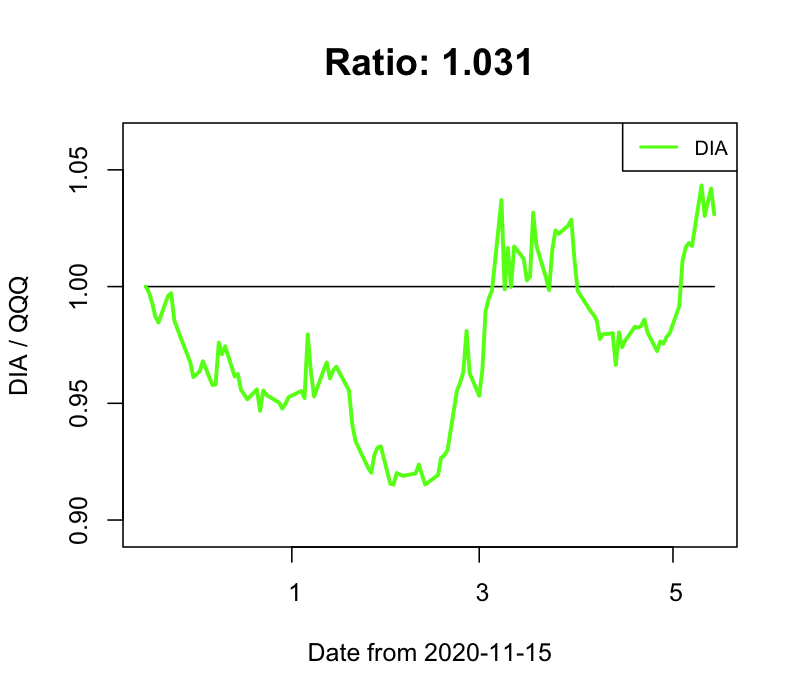
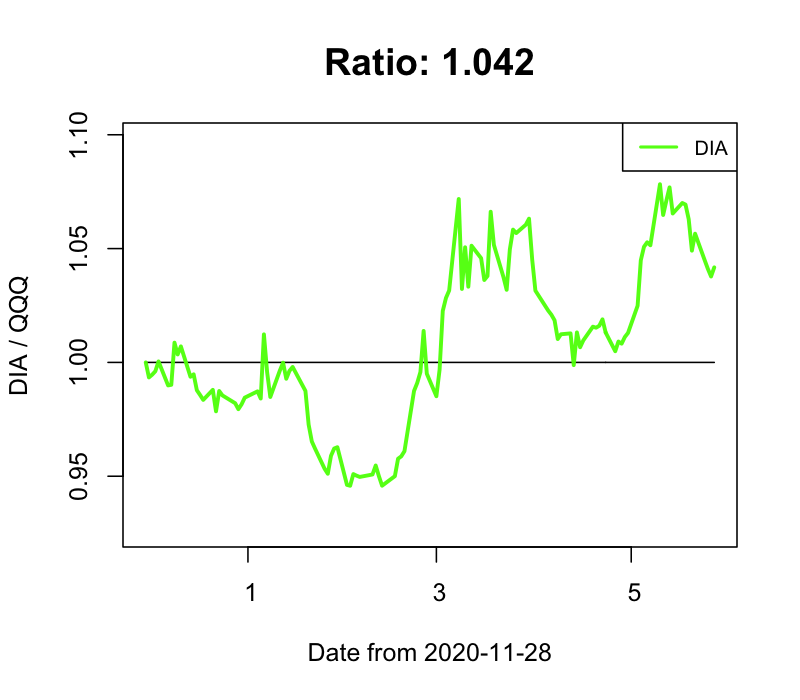
The first devel version

diff --git a/README.md b/README.md
@@ -2,31 +2,29 @@
 
 ### 逆張り投資 買いタイミング判定 ver 0.99.1
 
-- 2021-05-15 index銘柄
+- 2021-05-28 index銘柄
 
-  - 買いタイミング！: QQQ, AIQ, BOTZ, CLOU, EBIZ, EDOC, FXI, ICLN, MGK, MILN, PBD, SMH, TLT, VBK, VCR, VGT, VONG, VOT, VPL, VUG, VWO, XLK, XLY
+  - 買いタイミング！: VPU, XLU
 
-  - 強く買いタイミング！！！: FINX
+  - 利確タイミング！: GDXJ
 
-  - 利確タイミング！: FEZ, GDX, HDV, SPYD, TIP, VFH, VYM
+  - 強く利確タイミング！！！: GLD, GLDM, IAU
 
-  - 強く利確タイミング！！！: GLD, GLDM, IAU, VAW, XLF
+- 2021-05-28 レバレッジ銘柄
 
-- 2021-05-15 レバレッジ銘柄
+  - 買いタイミング！: CWEB, LABU
 
-  - 買いタイミング！: TECL, TQQQ, LABU, EDC, QLD
+  - 利確タイミング！: CHAU, INDL
 
-  - 強く買いタイミング！！！: SOXL, YINN, WEBL, CWEB
+  - 早めに利確タイミング！！！！: CHAU
 
-  - 利確タイミング！: FAS
+- 2021-05-28 個別銘柄
 
-- 2021-05-15 個別銘柄
+  - 買いタイミング！: AFRM, DOCU, AI, ZI
 
-  - 買いタイミング！: PLTR, SNAP, CRWD, U, ZM
+  - 強く買いタイミング！！！: RPRX, AMGN, ABNB
 
-  - 強く買いタイミング！！！: SQ, GDRX, RPRX, AFRM, PINS, SE, NIO, TWTR, ABNB, DOCU, AI, ZI
-
-  - 利確する銘柄なしで、見送り
+  - 強く利確タイミング！！！: RBLX
 
 ### QQQ との変化比率
 
